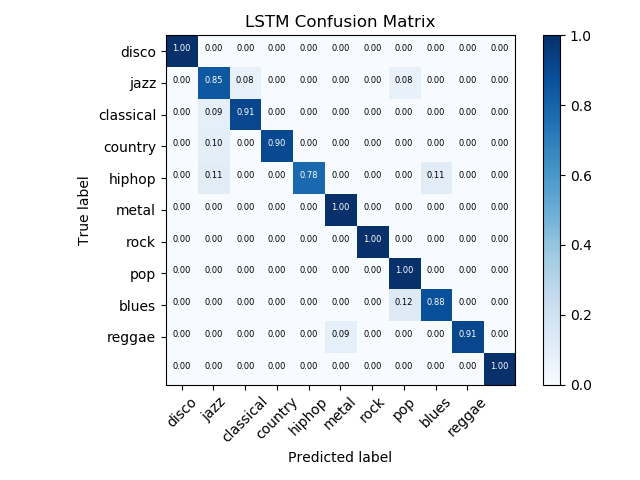
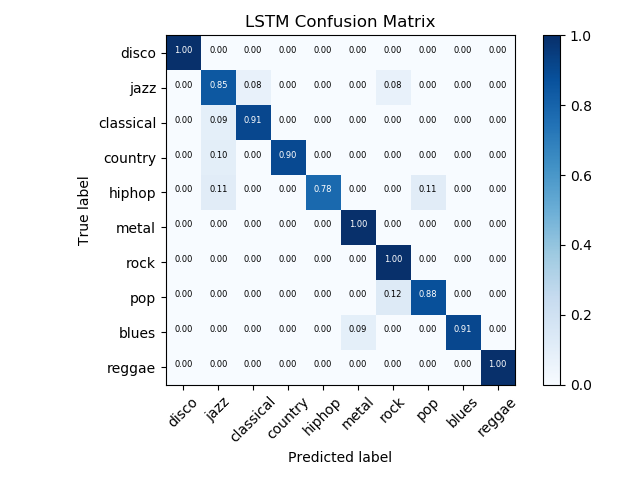
weird new line char

diff --git a/Graphing_Files/confusion_plotter.py b/Graphing_Files/confusion_plotter.py
@@ -64,9 +64,9 @@ fig = plt.figure()
 # fig.set_size_inches(7.0, 7.0, forward=True)
 
 with open(sys.argv[1], "r") as f:
-    label_batch = f.read().split(",")
+    label_batch = f.read().strip().split(",")
 with open(sys.argv[2], "r") as f:
-    pred_batch = f.read().split(",")
+    pred_batch = f.read().strip().split(",")
 # classes = sorted(list(set(pred_batch)))
 classes = ['disco', 'jazz', 'classical', 'country', 'hiphop', 'metal', 'rock', 'pop', 'blues', 'reggae']
 # cm = confusion_matrix(label_batch, pred_batch, labels=classes)
